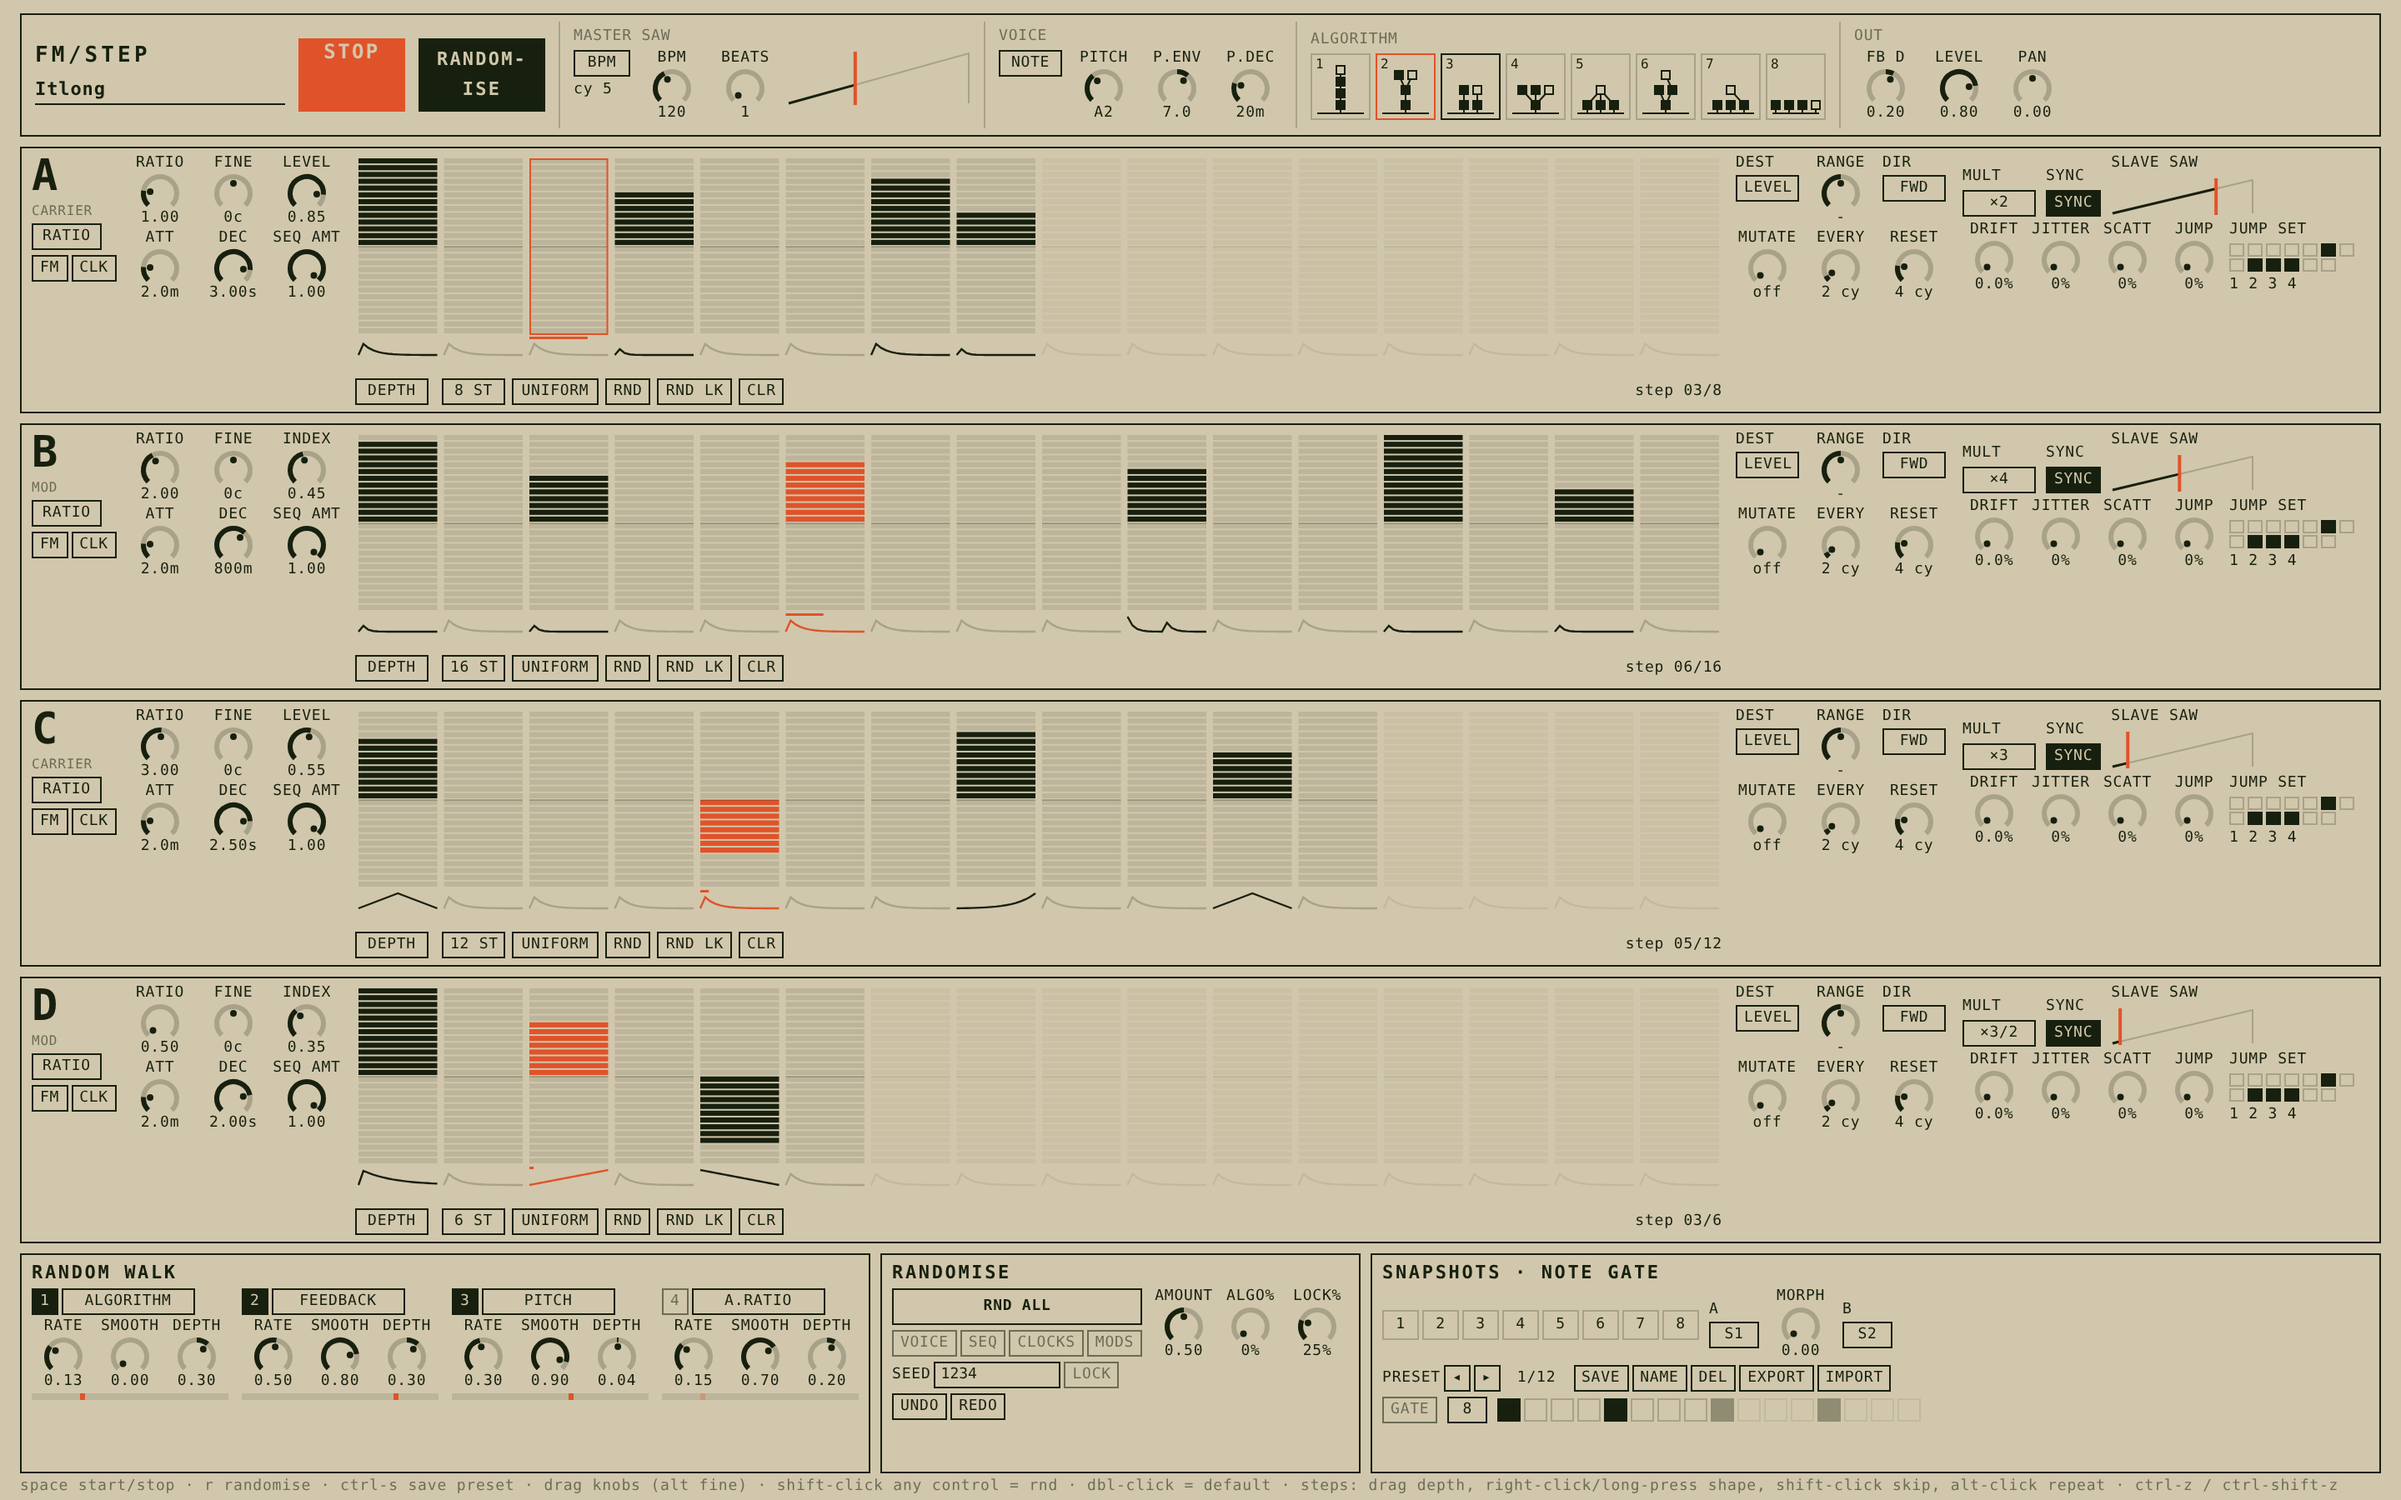
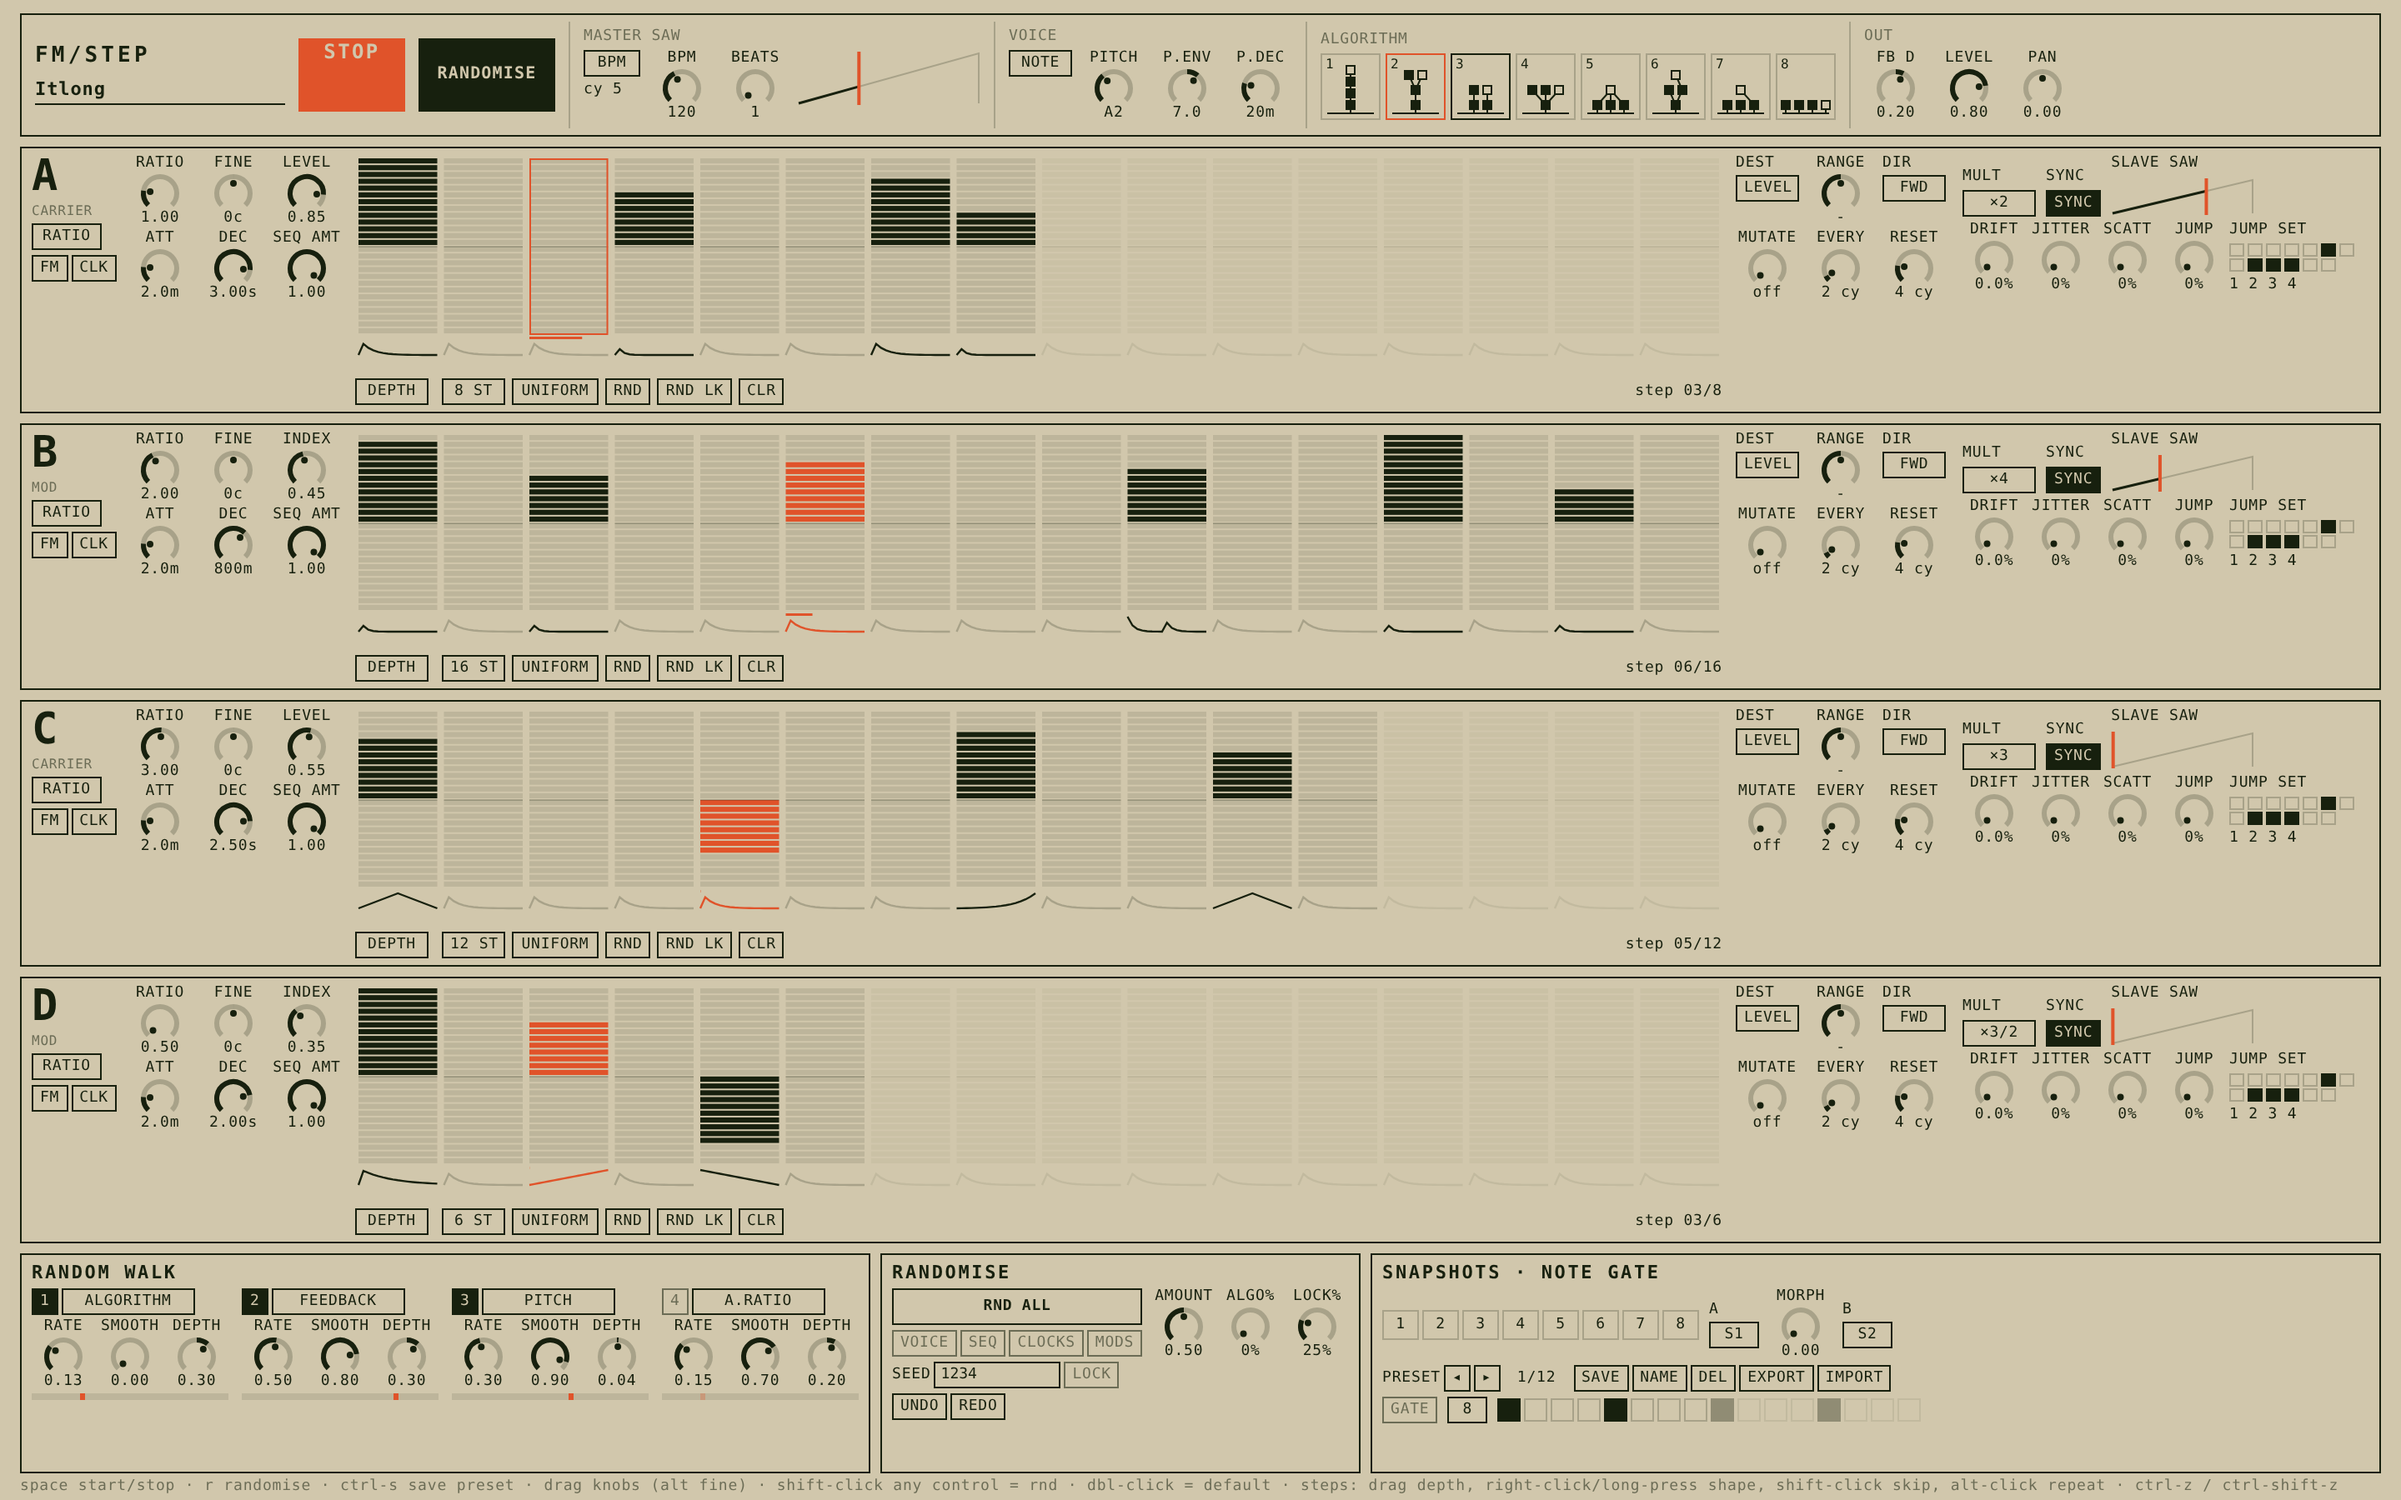
Phone layout for Pixel 9a; RANDOMISE now randomises everything
Claude-Session: https://claude.ai/code/session_018ENZqT8uPXUg66LybqJ133

Changed region(s): [[0.4062, 0.0311, 0.875, 0.0933], [0.1875, 0.0, 0.375, 0.0933]]

diff --git a/ui/app.js b/ui/app.js
@@ -5,7 +5,7 @@ import {
 } from '../dsp/params.js';
 import { SHAPES, shapeValue } from '../dsp/shapes.js';
 import { Rng, hashSeed } from '../dsp/rng.js';
-import { randomizePath, randomizeSection, fillSteps, rndLocks, rndAll, morphPatches, randomLockValue } from '../dsp/random.js';
+import { randomizePath, randomizeSection, fillSteps, rndLocks, rndAll, morphPatches, randomLockValue, randomizeEverything } from '../dsp/random.js';
 import { presetName } from './names.js';
 import { el, knob, selector, toggle, button, hiCanvas, toNorm, fromNorm } from './widgets.js';
 
@@ -151,7 +151,7 @@ ctx.register(() => {
 });
 const startBtn = button(top, 'START', startStop, 'space');
 startBtn.id = 'start';
-const bigRnd = button(top, 'RANDOM-\nISE', () => rndEverything(true), 'roll everything not locked, with a new name (R)');
+const bigRnd = button(top, 'RANDOMISE', () => randomiseAll(), 'randomise everything, ignoring locks, with a new name (R)');
 bigRnd.id = 'bigrnd';
 ctx.register(() => { startBtn.textContent = ui.running ? 'STOP' : 'START'; startBtn.classList.toggle('spot', ui.running); });
 el('div', 'sep', top);
@@ -241,7 +241,7 @@ function buildOp(i) {
   });
 
   // FM knobs
-  const kg = el('div', 'knobgrid', row);
+  const kg = el('div', 'knobgrid fmk', row);
   knob(ctx, kg, { path: () => (patch.ops[i].ratioMode === 'fixed' ? o + 'fixedHz' : o + 'ratio'),
     label: () => (patch.ops[i].ratioMode === 'fixed' ? 'hz' : 'ratio'),
     fmt: (v) => (patch.ops[i].ratioMode === 'fixed' ? v.toFixed(0) : v.toFixed(2)) });
@@ -269,7 +269,7 @@ function buildOp(i) {
   stripEvents(strip, i);
 
   // seq column
-  const sc = el('div', 'knobgrid', row);
+  const sc = el('div', 'knobgrid seqk', row);
   const dsel = el('div', 'col', sc);
   selector(ctx, dsel, { path: o + 'dest', labels: DESTS, label: 'dest', width: 38 });
   knob(ctx, sc, { path: o + 'destRange', label: 'range', fmt: (v) => (patch.ops[i].dest === 0 ? '-' : (v * 2).toFixed(1) + 'oc') });
@@ -280,7 +280,7 @@ function buildOp(i) {
   knob(ctx, sc, { path: o + 'syncEvery', label: 'reset', fmt: (v) => v + ' cy' });
 
   // clock column
-  const cc = el('div', 'col', row);
+  const cc = el('div', 'col clockc', row);
   const r1 = el('div', 'row', cc); r1.style.alignItems = 'flex-end';
   const mcol = el('div', 'col', r1);
   el('div', 'lbl', mcol, 'mult');
@@ -473,6 +473,14 @@ function rndSteps(i) {
   pushUndo();
   fillSteps(patch.ops[i], patch.rnd.style, uiRng(), patch.rnd.amount < 0.05 ? 0 : Math.max(patch.rnd.amount, 0.999 * (patch.rnd.amount >= 0.5)));
   changed(true);
+}
+function randomiseAll() {
+  pushUndo();
+  if (!ui.seedLocked) patch.seed = (Math.random() * 4294967296) >>> 0;
+  ui.presetName = presetName(new Rng(hashSeed(patch.seed, 'name'))); ui.presetIdx = -1;
+  randomizeEverything(patch, new Rng(hashSeed(patch.seed, 'everything')));
+  changed(true);
+  ui.presetDirty = true;
 }
 function rndEverything(rename) {
   pushUndo();
@@ -807,7 +815,7 @@ function frame() {
 window.addEventListener('keydown', (e) => {
   if (e.target instanceof HTMLInputElement) return;
   if (e.code === 'Space') { e.preventDefault(); startStop(); }
-  else if (e.key === 'r' && !e.ctrlKey && !e.metaKey) rndEverything(true);
+  else if (e.key === 'r' && !e.ctrlKey && !e.metaKey) randomiseAll();
   else if ((e.ctrlKey || e.metaKey) && e.key.toLowerCase() === 's') { e.preventDefault(); savePreset(); }
   else if ((e.ctrlKey || e.metaKey) && e.key.toLowerCase() === 'z') { e.preventDefault(); if (e.shiftKey) redo(); else undo(); }
   else if ((e.ctrlKey || e.metaKey) && e.key.toLowerCase() === 'y') { e.preventDefault(); redo(); }

diff --git a/ui/style.css b/ui/style.css
@@ -57,8 +57,8 @@ input.num:focus { border-color: var(--spot); }
   background: var(--bg); color: var(--ink); font: inherit; font-size: 11px; font-weight: 700; letter-spacing: 0.04em; padding: 0; outline: none; }
 .pname:focus { border-bottom-color: var(--spot); }
 .pname.dirty { font-style: italic; }
-#bigrnd { width: 76px; height: 44px; white-space: pre; line-height: 18px; padding-top: 3px; font-size: 11px; font-weight: 700;
-  letter-spacing: 0.1em; background: var(--ink); color: var(--bg); }
+#bigrnd { width: 82px; height: 44px; line-height: 42px; font-size: 10px; font-weight: 700;
+  letter-spacing: 0.06em; background: var(--ink); color: var(--bg); }
 #bigrnd:active { background: var(--spot); border-color: var(--spot); }
 .brand small { display: block; font-weight: 400; font-size: 8px; letter-spacing: 0.08em; color: var(--mid); margin-top: 3px; }
 canvas { display: block; }
@@ -105,4 +105,38 @@ canvas { display: block; }
 
 @media (max-width: 1360px) {
   .op { grid-template-columns: 50px 128px minmax(260px, 1fr) 128px 244px; gap: 6px; }
+}
+
+/* ---------- phone (Pixel 9a is 412 css px wide): stack everything, scroll vertically ---------- */
+@media (max-width: 760px) {
+  html, body { overflow-x: hidden; overflow-y: auto; height: auto; }
+  #app { height: auto; padding: 6px 6px 0; }
+  #hint { display: none; }
+  .sep { display: none; }
+  #top { flex-wrap: wrap; height: auto; gap: 6px 10px; padding: 6px; }
+  #top .brand { flex: 1 1 100%; display: flex; align-items: center; gap: 8px; }
+  .pname { margin-top: 0; flex: 1; width: auto; font-size: 13px; }
+  #start, #bigrnd { flex: 1 1 40%; height: 48px; line-height: 46px; }
+  #bigrnd { white-space: normal; }
+  .algos { flex-wrap: wrap; }
+  .algo { width: 40px; }
+  #ops { gap: 6px; }
+  .op { display: flex; flex-wrap: wrap; gap: 6px 8px; padding: 6px; }
+  .op .head { flex-direction: row; flex-wrap: wrap; align-items: center; flex: 1 1 100%; gap: 6px; }
+  .op .letter { margin-right: 4px; }
+  .op .knobgrid { grid-template-columns: repeat(6, 38px); gap: 2px 18px; flex: 1 1 100%; }
+  .stripwrap { flex: 1 1 100%; order: 3; }
+  .strip { min-height: 110px; height: 110px; flex: none; }
+  .striptools { flex-wrap: wrap; overflow: visible; }
+  .striptools .sel-box, .striptools .btn, .sel-box, .btn, .tog { height: 24px; line-height: 22px; min-width: 28px; }
+  .op > .seqk { order: 4; }
+  .op > .clockc { order: 5; flex: 1 1 100%; }
+  .op > .clockc > .row { flex-wrap: wrap; }
+  .saw { width: 120px; }
+  #bottom { flex-direction: column; height: auto; padding-bottom: 12px; }
+  .mods { flex-wrap: wrap; gap: 8px 14px; }
+  .mod { flex: 1 1 45%; }
+  #bottom .row { flex-wrap: wrap; }
+  .slot { width: 30px; height: 26px; line-height: 24px; }
+  .gate { width: 18px; height: 18px; }
 }

diff --git a/dsp/random.js b/dsp/random.js
@@ -1,5 +1,5 @@
 // Randomisers. Pure functions over the patch, driven by a seeded Rng so results are recallable.
-import { PARAM_SPECS, SPEC_BY_PATH, getPath, setPath, makeStep, MAX_STEPS, LOCK_KEYS, MULT_PRESETS, FILL_STYLES } from './params.js';
+import { PARAM_SPECS, SPEC_BY_PATH, getPath, setPath, makeStep, MAX_STEPS, LOCK_KEYS, MULT_PRESETS, FILL_STYLES, MOD_TARGETS as MOD_TARGETS_LOCAL } from './params.js';
 import { SHAPES } from './shapes.js';
 
 const NICE_RATIOS = [0.5, 1, 1, 1, 2, 2, 2, 3, 3, 4, 4, 5, 6, 7, 8, 1.5, 2.5, 3.5, 9, 11, 13];
@@ -232,4 +232,40 @@ function morphNode(a, b, x, key) {
     if (ROUND_KEYS.has(key)) return Math.round(a + (b - a) * x);
   }
   return x < 0.5 ? a : b;
+}
+
+// Randomise every part of the patch, ignoring section locks: voice, operators, steps (style, probability,
+// ratchets, locks), clocks, jump sets, gate row and random-walk modulators. Output level is left alone.
+export function randomizeEverything(patch, rng) {
+  rndAll(patch, {}, 1, rng);
+  patch.rnd.style = rng.int(FILL_STYLES.length);
+  patch.rnd.lockDensity = round4(rng.range(0, 0.4));
+  patch.voice.pitchEnvSemis = round4(rng.next() < 0.5 ? rng.range(-24, 24) : rng.range(-4, 4));
+  for (let i = 0; i < 4; i++) {
+    const op = patch.ops[i];
+    op.ratioMode = rng.next() < 0.12 ? 'fixed' : 'ratio';
+    op.fixedHz = round4(Math.exp(rng.range(Math.log(40), Math.log(4000))));
+    fillSteps(op, rng.int(FILL_STYLES.length), rng, 1);
+    rndLocks(op, patch.rnd.lockDensity, rng);
+    const set = [];
+    const n = 2 + rng.int(3);
+    while (set.length < n) { const k = rng.int(MULT_PRESETS.length); if (set.indexOf(k) < 0) set.push(k); }
+    op.jumpSet = set.sort((a, b) => a - b);
+  }
+  // keep at least one carrier clearly audible
+  const alg = patch.voice.algorithm;
+  const carriers = [[0], [0], [0, 2], [0], [0, 1, 2], [0], [0, 1, 2], [0, 1, 2, 3]][alg];
+  for (const c of carriers) patch.ops[c].level = Math.max(patch.ops[c].level, 0.45);
+  patch.ops[carriers[0]].seqAmount = Math.max(0.5, patch.ops[carriers[0]].seqAmount);
+  const targets = MOD_TARGETS_LOCAL;
+  for (const m of patch.mods) {
+    m.on = rng.next() < 0.7;
+    m.target = targets[1 + rng.int(targets.length - 1)];
+    m.depth = round4(rng.bipolar() * (m.target === 'pitch' ? 0.15 : 0.6));
+  }
+  patch.clock.mode = 'bpm';
+  patch.clock.gateOn = rng.next() < 0.3;
+  patch.clock.gateLen = 4 + rng.int(13);
+  patch.clock.gate = patch.clock.gate.map((_, k) => k === 0 || rng.next() < 0.4);
+  patch.rnd.algoChance = round4(rng.next() < 0.5 ? 0 : rng.range(0, 0.3));
 }

diff --git a/README.md b/README.md
@@ -18,7 +18,9 @@ with no DOM use, ready to port to C++/JUCE.
 - `ui/`: LCD interface
 
 ## Presets and randomiser
-- RANDOMISE (top bar, or the R key) rolls everything not locked and gives the patch a new generated name.
+- RANDOMISE (top bar, or the R key) randomises everything, ignoring section locks: voice, operators, steps, locks,
+  clocks, jump sets, gate row and modulators, and gives the patch a new generated name. RND ALL respects the locks.
+- On phones (under 760px wide, e.g. Pixel 9a) the panel stacks into one scrolling column.
 - Preset names are spliced from small chunks of words: ancient Greece, Chinese food, mountains,
   English village names and astronomy (`ui/names.js`).
 - The name field in the top bar is editable; ctrl-s or SAVE stores the preset (same name overwrites).
